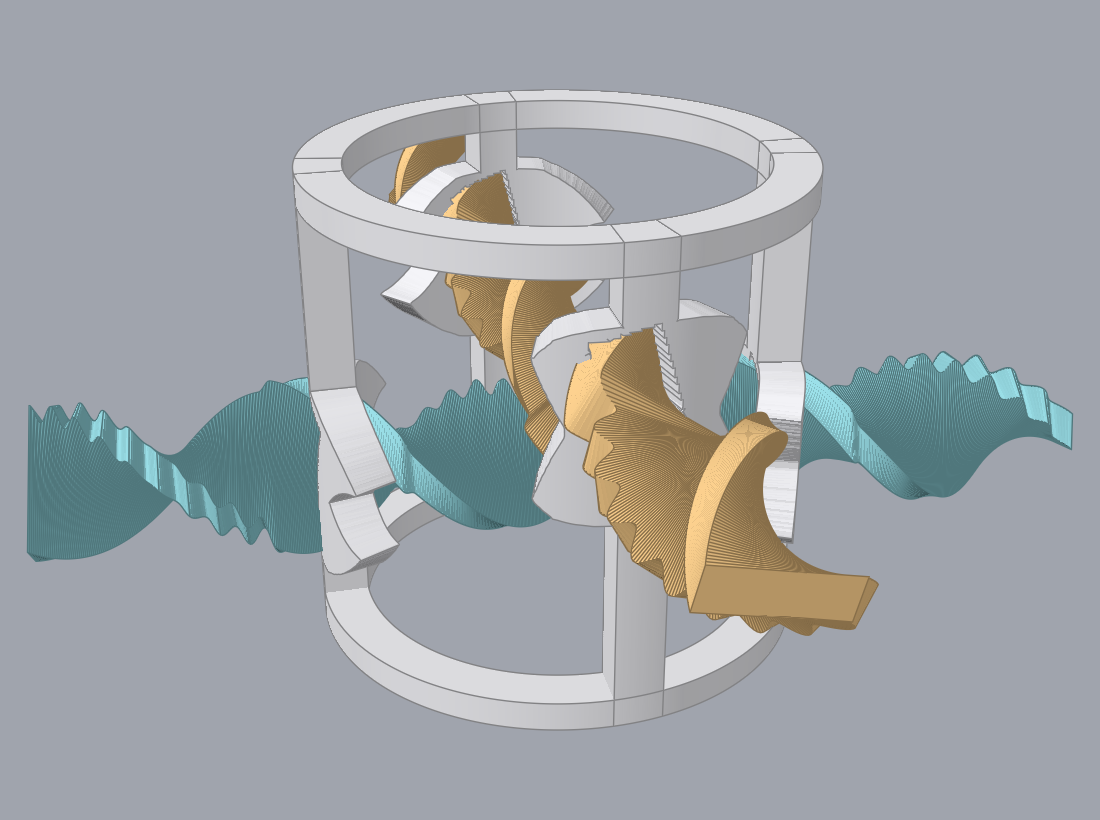
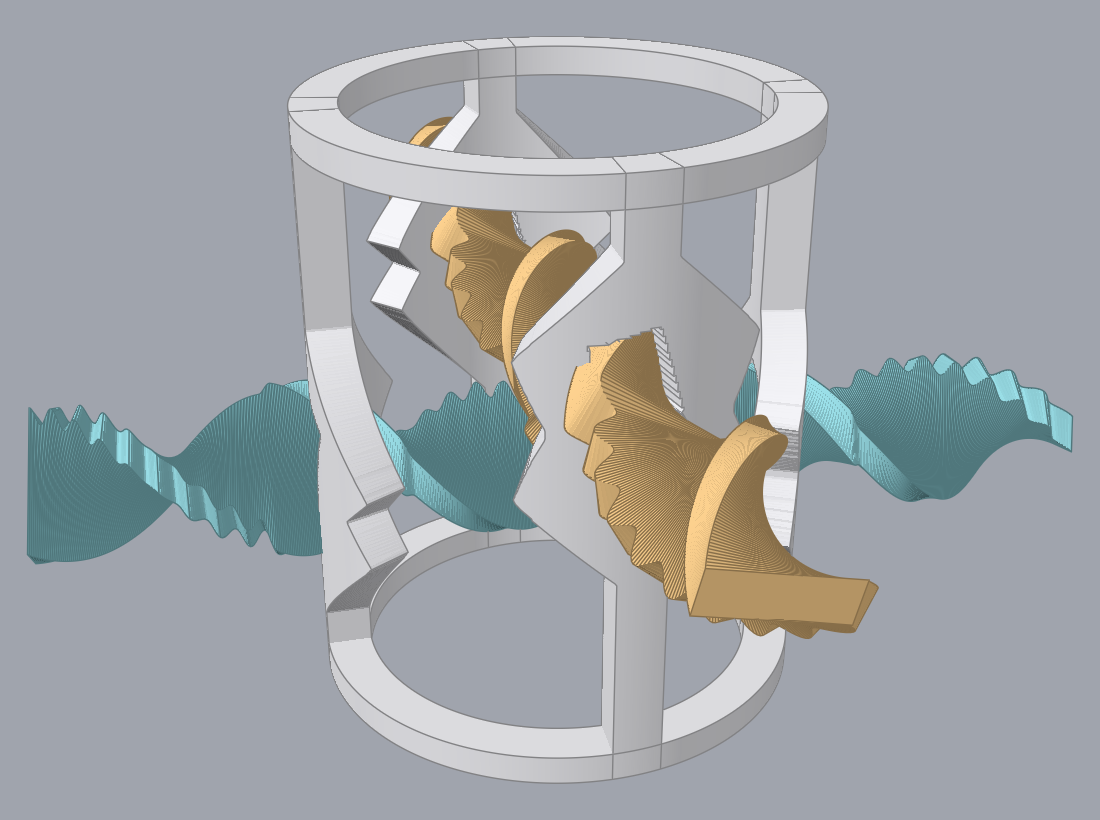
ramp the posts at 45 degrees

diff --git a/proof/screwgear/cage_test.go b/proof/screwgear/cage_test.go
@@ -102,8 +102,6 @@ func postPiece(g Gear, station float64) piece {
 	p := g.P
 	const step = 0.1
 	a := postAzimuth(g, station)
-	floor := p.PostWidth / 2 / p.CageRadius
-
 	n := int(math.Round(2*p.CageRise/step)) + 1
 	half := make([]float64, n)
 	for j := range n {
@@ -121,12 +119,26 @@ func postPiece(g Gear, station float64) piece {
 				}
 			}
 		}
-		half[j] = floor
+		half[j] = p.PostWidth / 2
 		if widest > 0 {
-			half[j] = math.Max(floor, (widest+p.BlockWall)/p.CageRadius)
+			half[j] = math.Max(p.PostWidth/2, widest+p.BlockWall)
 		}
 	}
-	return piece{azimuth: a, zLo: -p.CageRise, zHi: p.CageRise, step: step, half: half, g: &g}
+
+	// Hold the widening to 45 degrees. A post that widens faster than it rises
+	// leaves its new material hanging off nothing, and a filament printer will
+	// not bridge that. Taking each height's width as the largest any other
+	// height demands, less the distance between them, is exactly a 45 degree
+	// ramp either side of every bulge.
+	ramped := make([]float64, n)
+	for j := range n {
+		want := 0.0
+		for k := range n {
+			want = math.Max(want, half[k]-math.Abs(float64(j-k))*step)
+		}
+		ramped[j] = want / p.CageRadius
+	}
+	return piece{azimuth: a, zLo: -p.CageRise, zHi: p.CageRise, step: step, half: ramped, g: &g}
 }
 
 // platePieces are the two end plates: the whole way round, on the same wall.
@@ -241,6 +253,72 @@ func TestPostsRunUnbrokenIntoThePlates(t *testing.T) {
 		}
 	}
 	t.Logf("each post runs the full %.1f mm, widening only round its bore", 2*p.CageRise)
+}
+
+// Nothing on the frame may hang off nothing. A filament printer will not bridge
+// a surface shallower than 45 degrees, and the one place the frame could offer
+// one is where a post widens round its bore.
+//
+// The check is on the profile itself: half a millimetre more width per
+// millimetre of height is a 45 degree ramp, and anything steeper is an overhang.
+func TestPostsNeverOverhang(t *testing.T) {
+	ga, gb := defaultPair()
+	p := ga.P
+
+	for _, g := range []Gear{ga, gb} {
+		for _, station := range boreStations(p) {
+			q := postPiece(g, station)
+			for j := 1; j < len(q.half); j++ {
+				rise := q.step
+				run := math.Abs(q.half[j]-q.half[j-1]) * p.CageRadius
+				if run > rise+1e-9 {
+					t.Fatalf("the post at %.0f degrees widens %.3f mm over %.3f mm of height, "+
+						"which is steeper than 45 degrees", q.azimuth*180/math.Pi, run, rise)
+				}
+			}
+		}
+	}
+	t.Logf("no post widens faster than 45 degrees")
+}
+
+// A bore needs material round it, or the frame is a shell where it is most
+// worked.
+func TestBoresKeepTheirWall(t *testing.T) {
+	ga, gb := defaultPair()
+	p := ga.P
+
+	if p.BlockWall < 3 {
+		t.Fatalf("the wall round a bore is %.2f mm, under the 3 mm a printed frame needs",
+			p.BlockWall)
+	}
+	// And the post really is that much wider than its bore at every height.
+	for _, g := range []Gear{ga, gb} {
+		for _, station := range boreStations(p) {
+			q := postPiece(g, station)
+			for j, h := range q.half {
+				z := q.zLo + float64(j)*q.step
+				widest := 0.0
+				for r := p.CageInner(); r <= p.CageOuter(); r += 0.1 {
+					for dt := 0.0; dt <= p.Width; dt += 0.05 {
+						for _, sign := range []float64{1, -1} {
+							ang := q.azimuth + sign*dt/p.CageRadius
+							if inBore(g, r3.NewVec(r*math.Cos(ang), r*math.Sin(ang), z)) {
+								widest = math.Max(widest, dt)
+							}
+						}
+					}
+				}
+				if widest == 0 {
+					continue
+				}
+				if wall := h*p.CageRadius - widest; wall < p.BlockWall-1e-9 {
+					t.Fatalf("at height %.2f the post leaves %.2f mm round its bore, under %.2f",
+						z, wall, p.BlockWall)
+				}
+			}
+		}
+	}
+	t.Logf("every bore keeps at least %.1f mm of wall", p.BlockWall)
 }
 
 // The widening has to earn its material: a post that is as wide at its ends as

diff --git a/proof/screwgear/geometry_test.go b/proof/screwgear/geometry_test.go
@@ -67,11 +67,11 @@ func defaultParams() Params {
 		BossGrow:  0.6,
 
 		CageRadius: 15,
-		CageRise:   16,
+		CageRise:   20,
 		ShellThick: 3,
 		PlateThick: 2,
 		PostWidth:  3,
-		BlockWall:  2.0,
+		BlockWall:  3.0,
 		Clearance:  0.3,
 	}
 }

diff --git a/spec/screwgear/instructions.md b/spec/screwgear/instructions.md
@@ -246,11 +246,11 @@ User inputs in dialog order. All linear inputs are mm; the mounting angles are d
 | Boss Taper | `bossTaper` | mm | 0.9 |
 | Boss Height | `bossGrow` | mm | 0.6 |
 | Cage Radius | `cageRadius` | mm | 15 |
-| Cage Rise | `cageRise` | mm | 16 |
+| Cage Rise | `cageRise` | mm | 20 |
 | Shell Thickness | `shellThick` | mm | 3 |
 | Plate Thickness | `plateThick` | mm | 2 |
 | Post Width | `postWidth` | mm | 3 |
-| Block Wall | `blockWall` | mm | 2 |
+| Block Wall | `blockWall` | mm | 3 |
 | Clearance | `clearance` | mm | 0.3 |
 | Target Plane | `plane` | selection | — |
 | Centre Point | `point` | selection | — |
@@ -396,6 +396,15 @@ same rectangular section about `n̂`, so every outside face lands on that one cy
   material it does not need everywhere else, and a separate block sitting on a narrow post leaves a
   step at the join that reads as a gap.
 
+  **`blockWall` is 3 mm and that is a floor, not a preference.** Less than that leaves the frame a
+  shell exactly where it is most worked, at the one place it holds a gear.
+
+  **The widening is then held to 45°.** A post that widens faster than it rises leaves its new
+  material hanging off nothing, and a filament printer will not bridge that. Take each height's
+  width as the largest any other height demands, less the distance between them: that is a 45° ramp
+  either side of every bulge, and it is what sets `cageRise`, because the ramps have to run out
+  before the plates.
+
 **Bore each post with a twisted clearance ribbon** (`[SCREW-F-TWISTED-SLOT]`): loft five rectangles
 of `(W + 2*bossGrow + 2*clearance)` by `(T + 2*bossGrow + 2*clearance)` on planes along that gear's
 axis, each rotated by `s/Lambda + Phi` exactly as the tooth cell's sections are, spanning the whole
@@ -445,6 +454,9 @@ and it is cheap enough to run the search a few million times. The package import
 - `TestPostsRunUnbrokenIntoThePlates` walks each post's whole height and fails on any break in it,
   and requires the widening to have run out before the plate. `TestPostsAreNarrowAwayFromTheirBores`
   requires the widening to earn its material, at no more than half the bore's width at the plate.
+- `TestPostsNeverOverhang` is the printing rule: it walks the width profile and fails on any step
+  steeper than 45°. `TestBoresKeepTheirWall` walks every height of every post and fails if the
+  material round a bore drops under 3 mm.
 - `TestTheMiddleStaysOpen` keeps the frame out of the space the gears mesh in.
 - `TestStrokeIsTheBossLength` and `TestTeethNeverReachABore` hold the boss: the travel is 2.5 teeth,
   and no tooth is ever inside a bore over that travel.

diff --git a/proof/screwgear/README.md b/proof/screwgear/README.md
@@ -62,8 +62,12 @@ stand near upright.
 
 The frame with one gear left in it. It is a short tube with most of its wall gone: a flat plate at
 each end, and four posts between them. A post runs 3.00 mm wide for most of its height and widens
-to 12.20 mm only where its bore needs it, running back out into the plain width before it reaches
-either plate, so there is no step at the join and no gap. Each post sits where one ribbon crosses the cylinder
+to 14.20 mm only where its bore needs it, running back out into the plain width before it reaches
+either plate, so there is no step at the join and no gap.
+
+**Two printing rules shape that widening.** It never rises steeper than 45°, because a filament
+printer will not bridge a shallower surface, and it never leaves under 3 mm of material round a
+bore. The ramps are what make the cage 40 mm tall: they have to run out before the plates. Each post sits where one ribbon crosses the cylinder
 and carries a **bore** that ribbon passes through. Two posts are bored low and two high, so the two
 gears pass at different heights and their teeth meet in the middle.
 
@@ -113,7 +117,8 @@ four tooth pairs land in the engaged zone at once and cannot all interdigitate, 
 | Bore angle | 15° off upright, which is the best the mounting angles allow |
 | Play in the frame | a bore jams a gear 3.21° out of step |
 | Stroke | 5.03 mm, or 2.9 teeth |
-| Post width | 3.00 mm, widening to 12.20 mm at a bore |
+| Post width | 3.00 mm, widening to 14.20 mm at a bore, on 45° ramps |
+| Wall round a bore | 3 mm everywhere |
 
 `TestPairDrivesOneToOne` is where the first four come from. It tracks the interval of gear B's
 tooth phase that clears gear A through a full pitch of A, and requires three things of it: that
